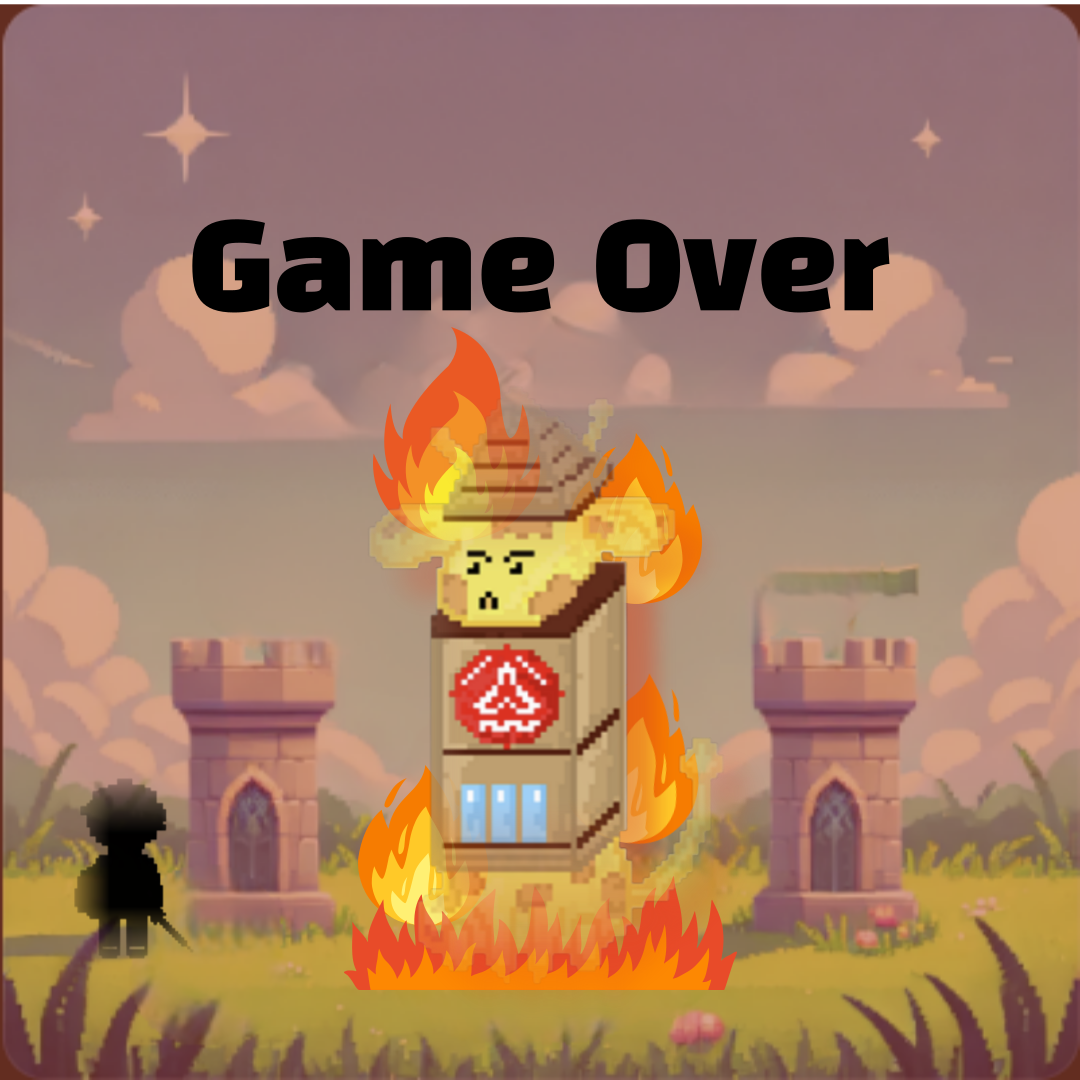
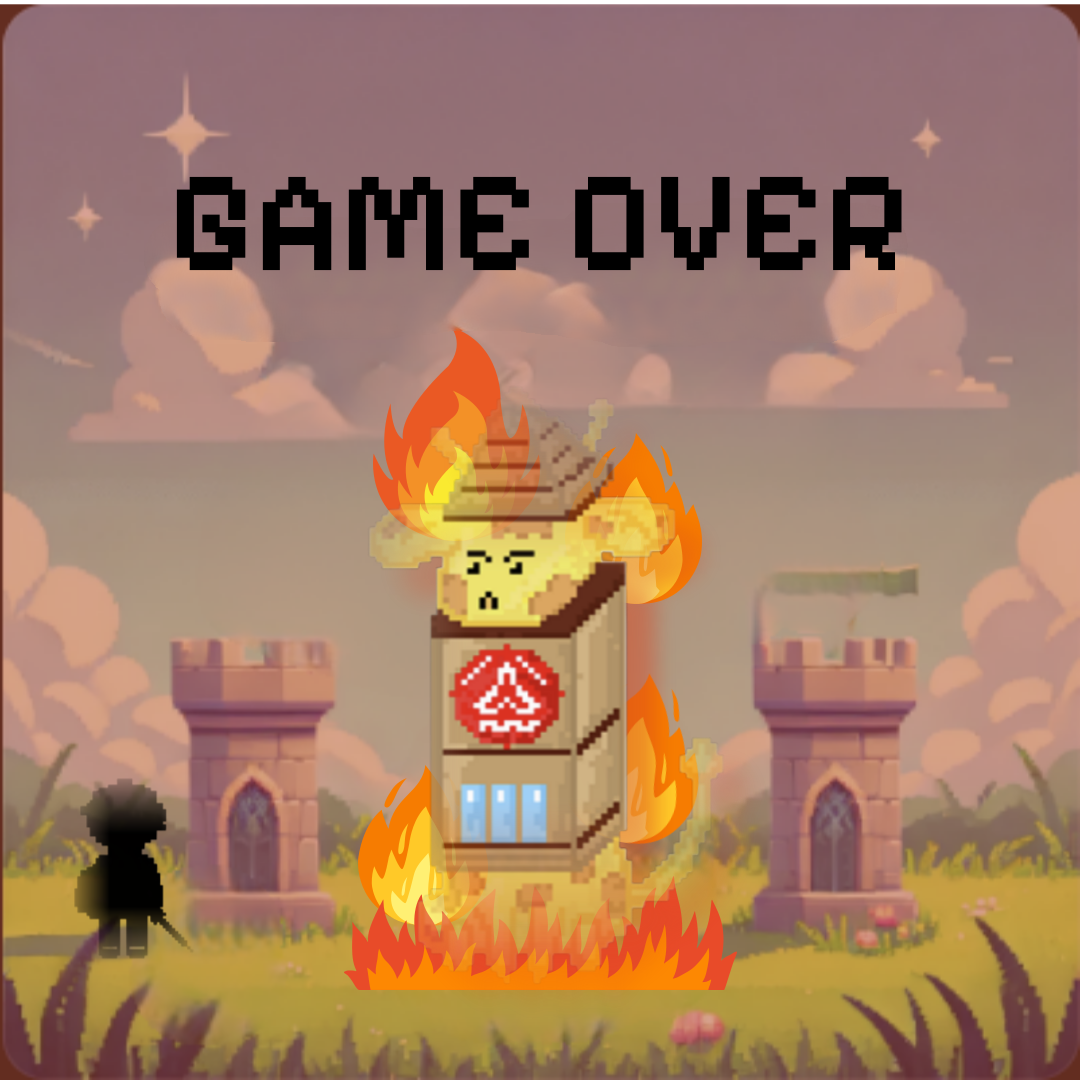
Screen Ui second commit

Changed region(s): [[0.1528, 0.1528, 0.8556, 0.3056]]

diff --git a/ScreenUi.cpp b/ScreenUi.cpp
@@ -1,11 +1,11 @@
 
 #include <SFML/Graphics.hpp>
 #include"ScreenUi.h"
-
+//r,g,b = 129, 193, 71
 ScreenUi::ScreenUi(const sf::Vector2f& windowSize) : isVisible(true), isGameOver(false), isVictory(false) {
     // 시작 버튼 설정
     startButton.setSize(sf::Vector2f(300.f, 60.f));
-    startButton.setFillColor(sf::Color(129, 193, 71)); // 보라색
+    startButton.setFillColor(sf::Color(129,193,71)); 
     startButton.setPosition(
         windowSize.x / 2 - startButton.getSize().x / 2,
         windowSize.y * 0.7f
@@ -73,7 +73,7 @@ void ScreenUi::loadResources(const std::string& backgroundPath, const std::strin
         sf::FloatRect startTextBounds = startButtonText.getLocalBounds();
         startButtonText.setPosition(
             startButton.getPosition().x + (startButton.getSize().x - startTextBounds.width) / 2,
-            startButton.getPosition().y + (startButton.getSize().y - startTextBounds.height) / 2-6
+            startButton.getPosition().y + (startButton.getSize().y - startTextBounds.height) / 2-2
         );
 
         // EXIT 텍스트 설정
@@ -86,7 +86,7 @@ void ScreenUi::loadResources(const std::string& backgroundPath, const std::strin
         sf::FloatRect exitTextBounds = exitButtonText.getLocalBounds();
         exitButtonText.setPosition(
             exitButton.getPosition().x + (exitButton.getSize().x - exitTextBounds.width) / 2,
-            exitButton.getPosition().y + (exitButton.getSize().y - exitTextBounds.height) / 2-6
+            exitButton.getPosition().y + (exitButton.getSize().y - exitTextBounds.height) / 2-2
         );
     }
 

diff --git a/Game.cpp b/Game.cpp
@@ -36,7 +36,7 @@ Game::Game() :
     backgroundTexture.loadFromFile("background.png");
     backgroundSprite.setTexture(backgroundTexture);
    
-    screenUI.loadResources("StartUi.png", "arial.ttf");
+    screenUI.loadResources("StartUi.png", "PixelOperator8.ttf");
     gameStarted = false;
 
 }

diff --git a/Monster.h b/Monster.h
@@ -55,9 +55,9 @@ public:
         }
         else   
             return MonsterType::Mid_Boss;
-        
        
     }
+
 private:
     sf::RectangleShape shape; // ������ ���
     float movementSpeed; // ������ �̵� �ӵ�
